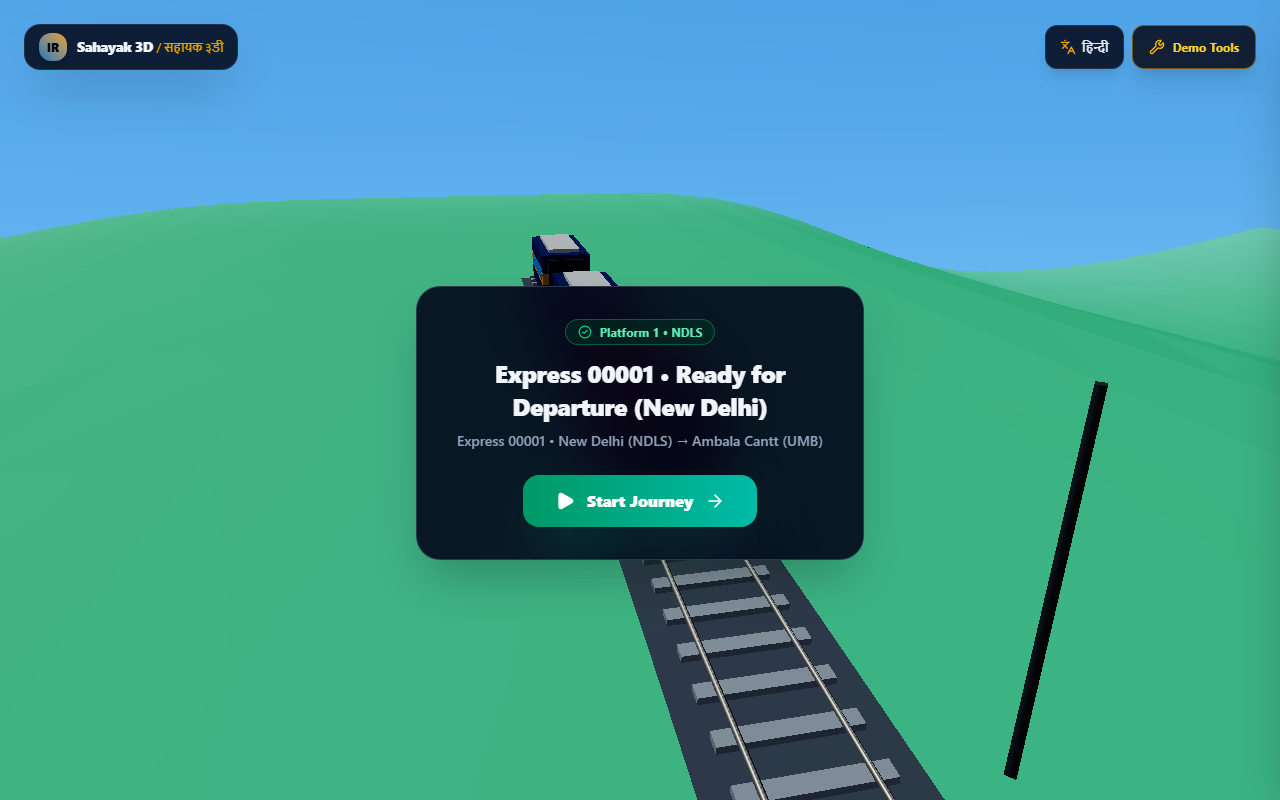
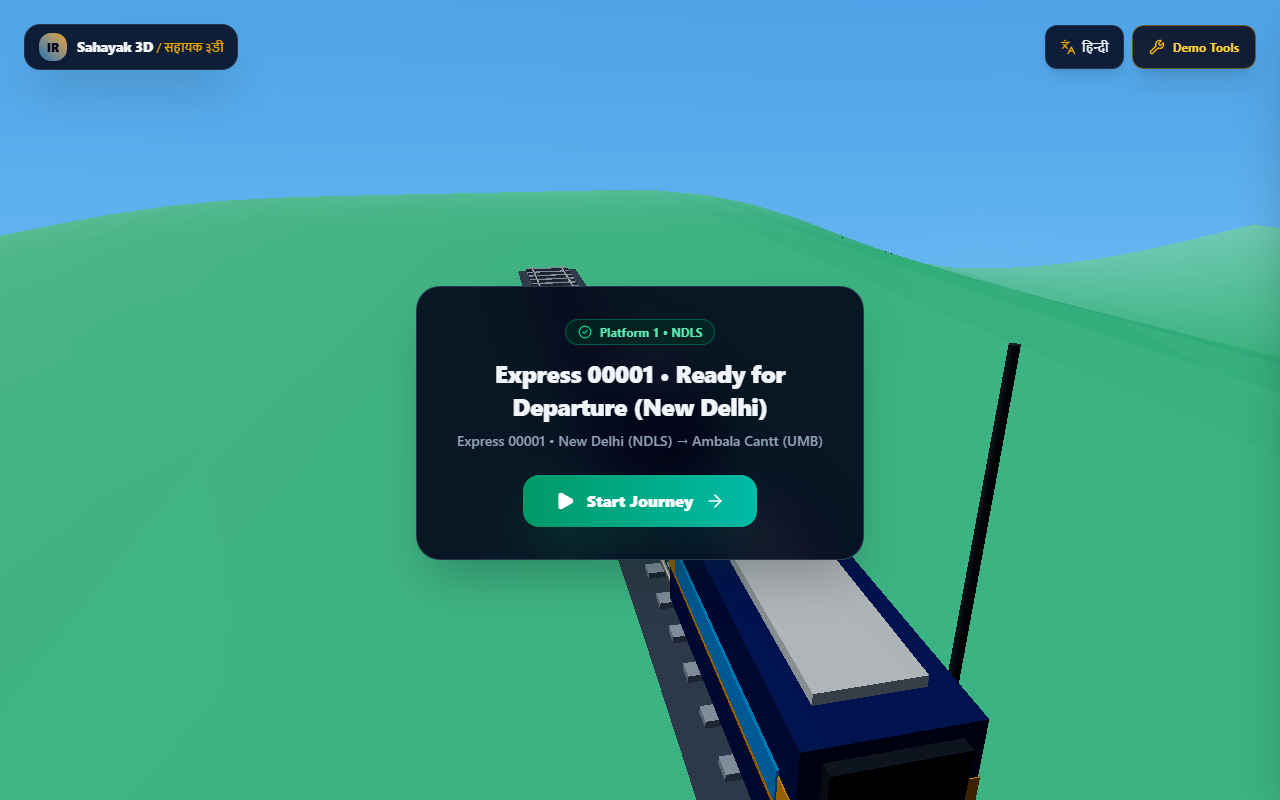
fix(corridor): static clouds in reduced motion, smooth loop fade, and coach spacing assertions

diff --git a/src/components/3d/Train.tsx b/src/components/3d/Train.tsx
@@ -122,8 +122,8 @@ export function Train() {
           } else {
             // Smooth, continuous deceleration curve that glides naturally into zero
             // using sin easing combined with linear ratio so derivative approaches 0 smoothly
-            const targetSpeed = maxAllowedSpeed * Math.sin((ratio * Math.PI) / 2) * Math.min(1, ratio * 1.4);
-            journeyPhysics.speed = THREE.MathUtils.lerp(journeyPhysics.speed, targetSpeed, delta * 3.8);
+            const targetSpeed = maxAllowedSpeed * Math.sin((ratio * Math.PI) / 2) * Math.min(1, ratio * 1.3);
+            journeyPhysics.speed = THREE.MathUtils.lerp(journeyPhysics.speed, targetSpeed, delta * 4.4);
 
             // Strict cap: train can NEVER exceed initialBrakeSpeed (never accelerate after disruption)
             if (journeyPhysics.speed > maxAllowedSpeed) {
@@ -131,7 +131,7 @@ export function Train() {
             }
 
             // Continuous cutoff threshold: when speed is negligible near target margin, smoothly reach complete stop
-            if ((distRemaining < 1.2 && journeyPhysics.speed < 0.012) || journeyPhysics.speed < 0.003) {
+            if ((distRemaining < 1.0 && journeyPhysics.speed < 0.010) || journeyPhysics.speed < 0.003) {
               journeyPhysics.speed = 0;
               journeyPhysics.progress = stopProgress;
             }
@@ -146,6 +146,9 @@ export function Train() {
       }
 
       // 2. Advance train master progress along spline (never overshoots stopProgress at red signal)
+      const deltaProgress = Math.max(0, journeyPhysics.speed * 0.045 * delta);
+      let nextProgress = journeyPhysics.progress + deltaProgress;
+
       if (disruptionType === 'delay' || disruptionType === 'cancellation') {
         const CORRIDOR_CURVE_LENGTH = 568.74;
         const SIGNAL_STOP_MARGIN_UNITS = 4.5;
@@ -155,25 +158,38 @@ export function Train() {
           getNextSignalAhead(journeyPhysics.progress);
         const stopProgress = (activeSig.progress - MARGIN_PROGRESS + 1) % 1;
 
-        const deltaProgress = Math.max(0, journeyPhysics.speed * 0.045 * delta);
-        const nextProgress = journeyPhysics.progress + deltaProgress;
         if (nextProgress >= stopProgress && journeyPhysics.progress <= stopProgress) {
-          journeyPhysics.progress = stopProgress;
+          nextProgress = stopProgress;
           journeyPhysics.speed = 0;
-        } else {
-          journeyPhysics.progress = Math.max(journeyPhysics.progress, nextProgress);
+        }
+      }
+
+      // Seamless journey looping: When train completes run past Ambala (progress >= 0.98),
+      // smoothly loop back to Delhi approach with 0.6s fade and clean consistent state.
+      if (nextProgress >= 0.98) {
+        const store = useJourneyStore.getState();
+        const isReduced = store.reducedMotion;
+
+        // Clear any active disruption on loop to guarantee clean consistent state
+        if (store.disruptionType !== 'none' || store.status !== 'on-time') {
+          store.setDisruptionType('none');
+        }
+
+        journeyPhysics.progress = 0.02;
+        journeyPhysics.speed = 0.25;
+        journeyPhysics.targetSpeed = 0.25;
+        journeyPhysics.activeBranch = 'main';
+        store.setActiveBranch('main');
+        store.setActiveSignalId('sig-102');
+
+        if (!isReduced) {
+          store.setIsLoopFading(true);
+          setTimeout(() => {
+            useJourneyStore.getState().setIsLoopFading(false);
+          }, 600);
         }
       } else {
-        const deltaProgress = Math.max(0, journeyPhysics.speed * 0.045 * delta);
-        const nextProgress = journeyPhysics.progress + deltaProgress;
-        // Seamless journey looping: When train completes run past Ambala, loop back to Delhi approach
-        if (nextProgress >= 0.98) {
-          journeyPhysics.progress = 0.02;
-          journeyPhysics.activeBranch = 'main';
-          useJourneyStore.getState().setActiveBranch('main');
-        } else {
-          journeyPhysics.progress = nextProgress;
-        }
+        journeyPhysics.progress = Math.max(journeyPhysics.progress, nextProgress);
       }
     }
 
@@ -188,8 +204,9 @@ export function Train() {
       if (!ref) continue;
 
       // Arc-length parameterization ensures uniform spacing through any curve radius
+      // Lead locomotive (i=0) leads at front; trailing coaches (i>0) follow behind with positive progress >= 0.02
       const coachProgress =
-        (journeyPhysics.progress - i * COACH_OFFSET_STEP + 1) % 1;
+        (journeyPhysics.progress + (COACH_COUNT - 1 - i) * COACH_OFFSET_STEP) % 1;
       journeyPhysics.coachProgresses[i] = coachProgress;
 
       // Route abstraction: every coach follows the exact continuous blended curve path

diff --git a/src/store/journeyStore.ts b/src/store/journeyStore.ts
@@ -1,5 +1,5 @@
 import { create } from 'zustand';
-import { journeyPhysics, ShadowQualityTier } from './journeyPhysics';
+import { journeyPhysics, ShadowQualityTier, COACH_OFFSET_STEP } from './journeyPhysics';
 import { broadcastJourneyState, getSyncChannel } from '@/utils/broadcastSync';
 
 export type JourneyStatus = 'on-time' | 'delay' | 'cancelled' | 'rerouted' | 'resolved';
@@ -166,6 +166,9 @@ export interface JourneyState {
   confirmedOption: any | null;
   previousDisruptionState: PreviousDisruptionState | null;
 
+  isLoopFading: boolean;
+  setIsLoopFading: (isLoopFading: boolean) => void;
+
   startJourney: () => void;
   toggleDemoTools: () => void;
   setDemoToolsOpen: (open: boolean) => void;
@@ -240,6 +243,8 @@ export const useJourneyStore = create<JourneyState>((set, get) => ({
   previewRouteId: null,
   confirmedOption: null,
   previousDisruptionState: null,
+  isLoopFading: false,
+  setIsLoopFading: (isLoopFading) => set({ isLoopFading }),
 
   startJourney: () => {
     journeyPhysics.targetSpeed = 0.25;
@@ -508,6 +513,13 @@ export const useJourneyStore = create<JourneyState>((set, get) => ({
     journeyPhysics.speed = 0.25;
     journeyPhysics.targetSpeed = 0.25;
     journeyPhysics.activeBranch = 'main';
+    journeyPhysics.coachProgresses = [
+      0.02 + 4 * COACH_OFFSET_STEP,
+      0.02 + 3 * COACH_OFFSET_STEP,
+      0.02 + 2 * COACH_OFFSET_STEP,
+      0.02 + 1 * COACH_OFFSET_STEP,
+      0.02,
+    ];
 
     broadcastJourneyState({
       status: 'on-time',
@@ -524,6 +536,7 @@ export const useJourneyStore = create<JourneyState>((set, get) => ({
       targetSpeed: 0.25,
       disruptionType: 'none',
       activeBranch: 'main',
+      activeSignalId: 'sig-102',
       journeyStarted: true,
       isDemoToolsOpen: false,
       previewRouteId: null,

diff --git a/src/components/ui/Overlay.tsx b/src/components/ui/Overlay.tsx
@@ -49,6 +49,7 @@ export function Overlay() {
 
   const journeyStarted = useJourneyStore((s) => s.journeyStarted);
   const isDemoToolsOpen = useJourneyStore((s) => s.isDemoToolsOpen);
+  const isLoopFading = useJourneyStore((s) => s.isLoopFading);
 
   const startJourney = useJourneyStore((s) => s.startJourney);
   const toggleDemoTools = useJourneyStore((s) => s.toggleDemoTools);
@@ -191,6 +192,15 @@ export function Overlay() {
         {t.skipToContent}
       </a>
 
+      {/* 0.6s Loop Fade Overlay (Instant under reduced motion) */}
+      <div
+        id="corridor-loop-fade-overlay"
+        aria-hidden="true"
+        className={`fixed inset-0 z-50 pointer-events-none bg-slate-950 transition-opacity duration-300 ${
+          isLoopFading ? 'opacity-100' : 'opacity-0'
+        } ${reducedMotion ? 'transition-none duration-0' : ''}`}
+      />
+
       {/* Screen Reader Live Region for Status Changes */}
       <div className="sr-only" aria-live="polite" role="status">
         {isHindi
@@ -221,6 +231,7 @@ export function Overlay() {
             </div>
 
             <div
+              id="signal-aspect-badge"
               className={`flex items-center gap-1.5 px-3 py-1.5 rounded-full text-xs font-bold border backdrop-blur-md shadow-lg transition-all ${signalAspect.colorClass}`}
               title={`Trackside ${activeSignal.nameEn} aspect status`}
             >

diff --git a/src/components/3d/ParallaxAtmosphere.tsx b/src/components/3d/ParallaxAtmosphere.tsx
@@ -73,13 +73,12 @@ export function ParallaxAtmosphere() {
   }, [cloudData, activeCloudCount]);
 
   useFrame((_, delta) => {
-    // 1. Drifting Clouds Parallax: clouds always drift smoothly in the atmosphere
-    if (cloudsRef.current) {
+    // 1. Drifting Clouds Parallax: clouds stay completely static under reduced motion
+    if (cloudsRef.current && !isReducedMotion) {
       const dummy = new THREE.Object3D();
-      const speedMultiplier = isReducedMotion ? 0.5 : 1.0;
       cloudData.slice(0, activeCloudCount).forEach((c, i) => {
         // Drift along X and slowly along Z
-        c.pos.x += delta * c.speed * speedMultiplier;
+        c.pos.x += delta * c.speed;
         if (c.pos.x > 80) c.pos.x = -80;
 
         dummy.position.copy(c.pos);

diff --git a/src/store/journeyPhysics.ts b/src/store/journeyPhysics.ts
@@ -53,7 +53,13 @@ export const journeyPhysics: JourneyPhysicsState = {
   speed: 0.25,
   targetSpeed: 0.25,
   coachOffsets: [0, 1 * COACH_OFFSET_STEP, 2 * COACH_OFFSET_STEP, 3 * COACH_OFFSET_STEP, 4 * COACH_OFFSET_STEP],
-  coachProgresses: [0.02, 0.02 - 1 * COACH_OFFSET_STEP, 0.02 - 2 * COACH_OFFSET_STEP, 0.02 - 3 * COACH_OFFSET_STEP, 0.02 - 4 * COACH_OFFSET_STEP],
+  coachProgresses: [
+    0.02 + 4 * COACH_OFFSET_STEP,
+    0.02 + 3 * COACH_OFFSET_STEP,
+    0.02 + 2 * COACH_OFFSET_STEP,
+    0.02 + 1 * COACH_OFFSET_STEP,
+    0.02,
+  ],
   coachRotations: [0, 0, 0, 0, 0],
   wheelAngle: 0,
   isStationStopped: false,
